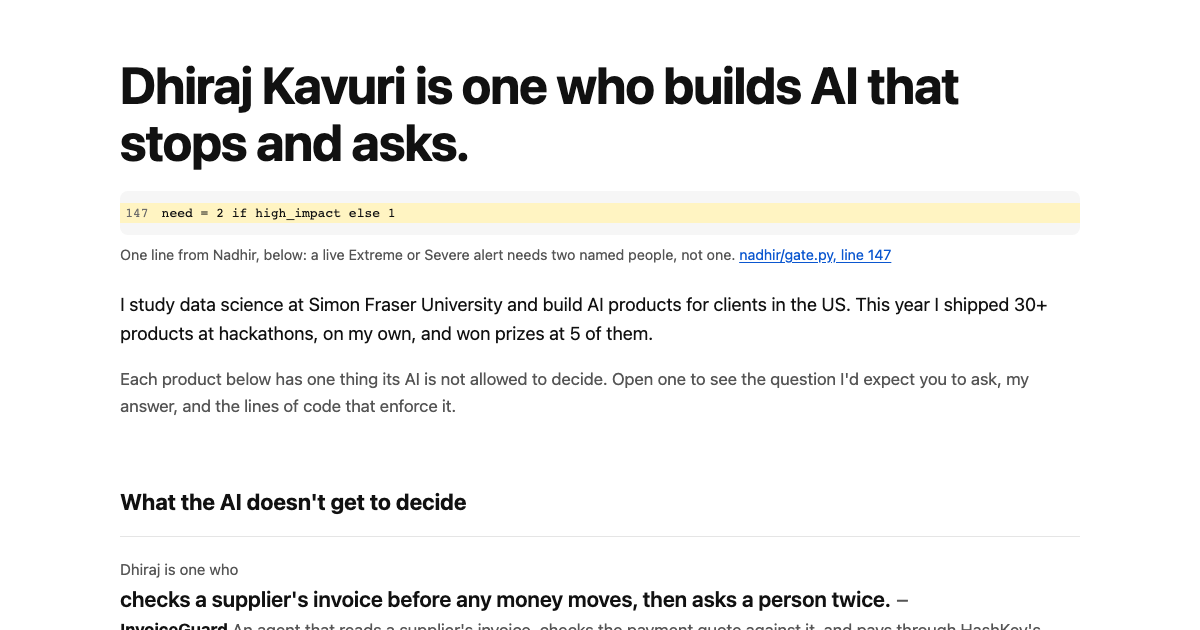
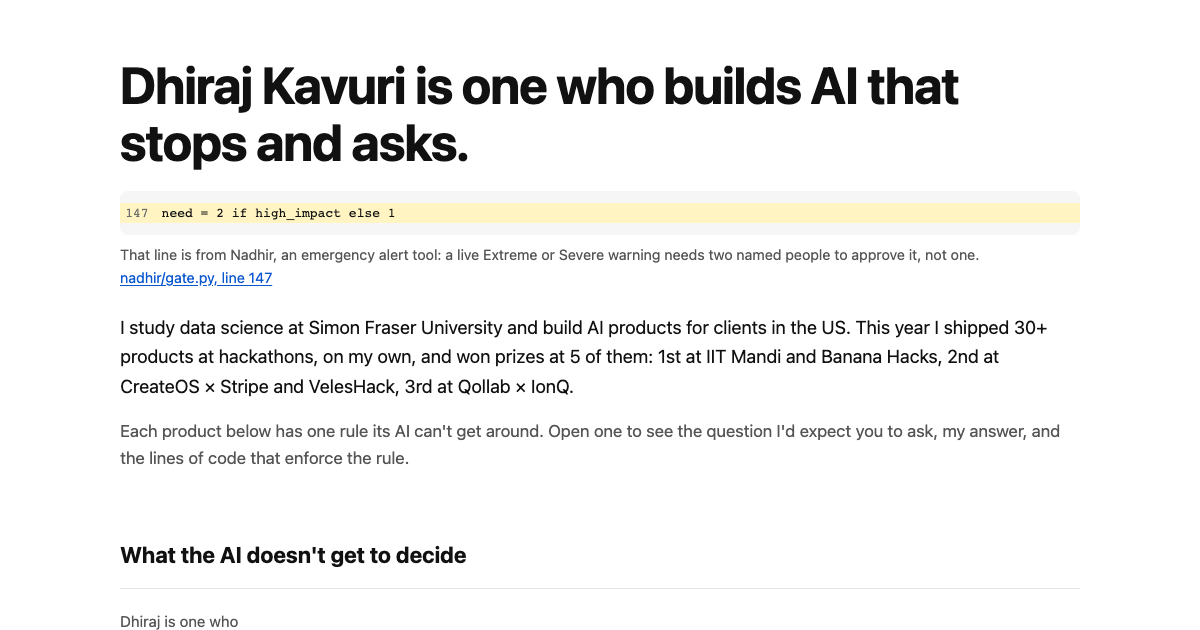
Fix review findings: caption, headings, code labels, named prizes, hash links, headers

diff --git a/src/style.css b/src/style.css
@@ -60,3 +60,9 @@ code { position: relative; z-index: 0; }
 @keyframes mark { from { transform: scaleX(0); } to { transform: scaleX(1); } }
 .via { border-left: 3px solid var(--ink); padding: 2px 0 2px 12px; margin: 16px 0 0; }
 .rest .built { font-size: 0.9rem; }
+.sr { position: absolute; width: 1px; height: 1px; overflow: hidden; clip: rect(0 0 0 0); white-space: nowrap; }
+summary h3.does { margin: 0; font-size: 1.35rem; }
+h4.label, h2.label { font-size: 0.85rem; font-weight: 600; color: var(--soft); margin: 16px 0 4px; letter-spacing: 0; }
+summary .does::after { content: " +" / ""; }
+details[open] summary .does::after { content: " \2212" / ""; }
+@media (forced-colors: active) { .ln.hot { border-left: 4px solid Highlight; } }
